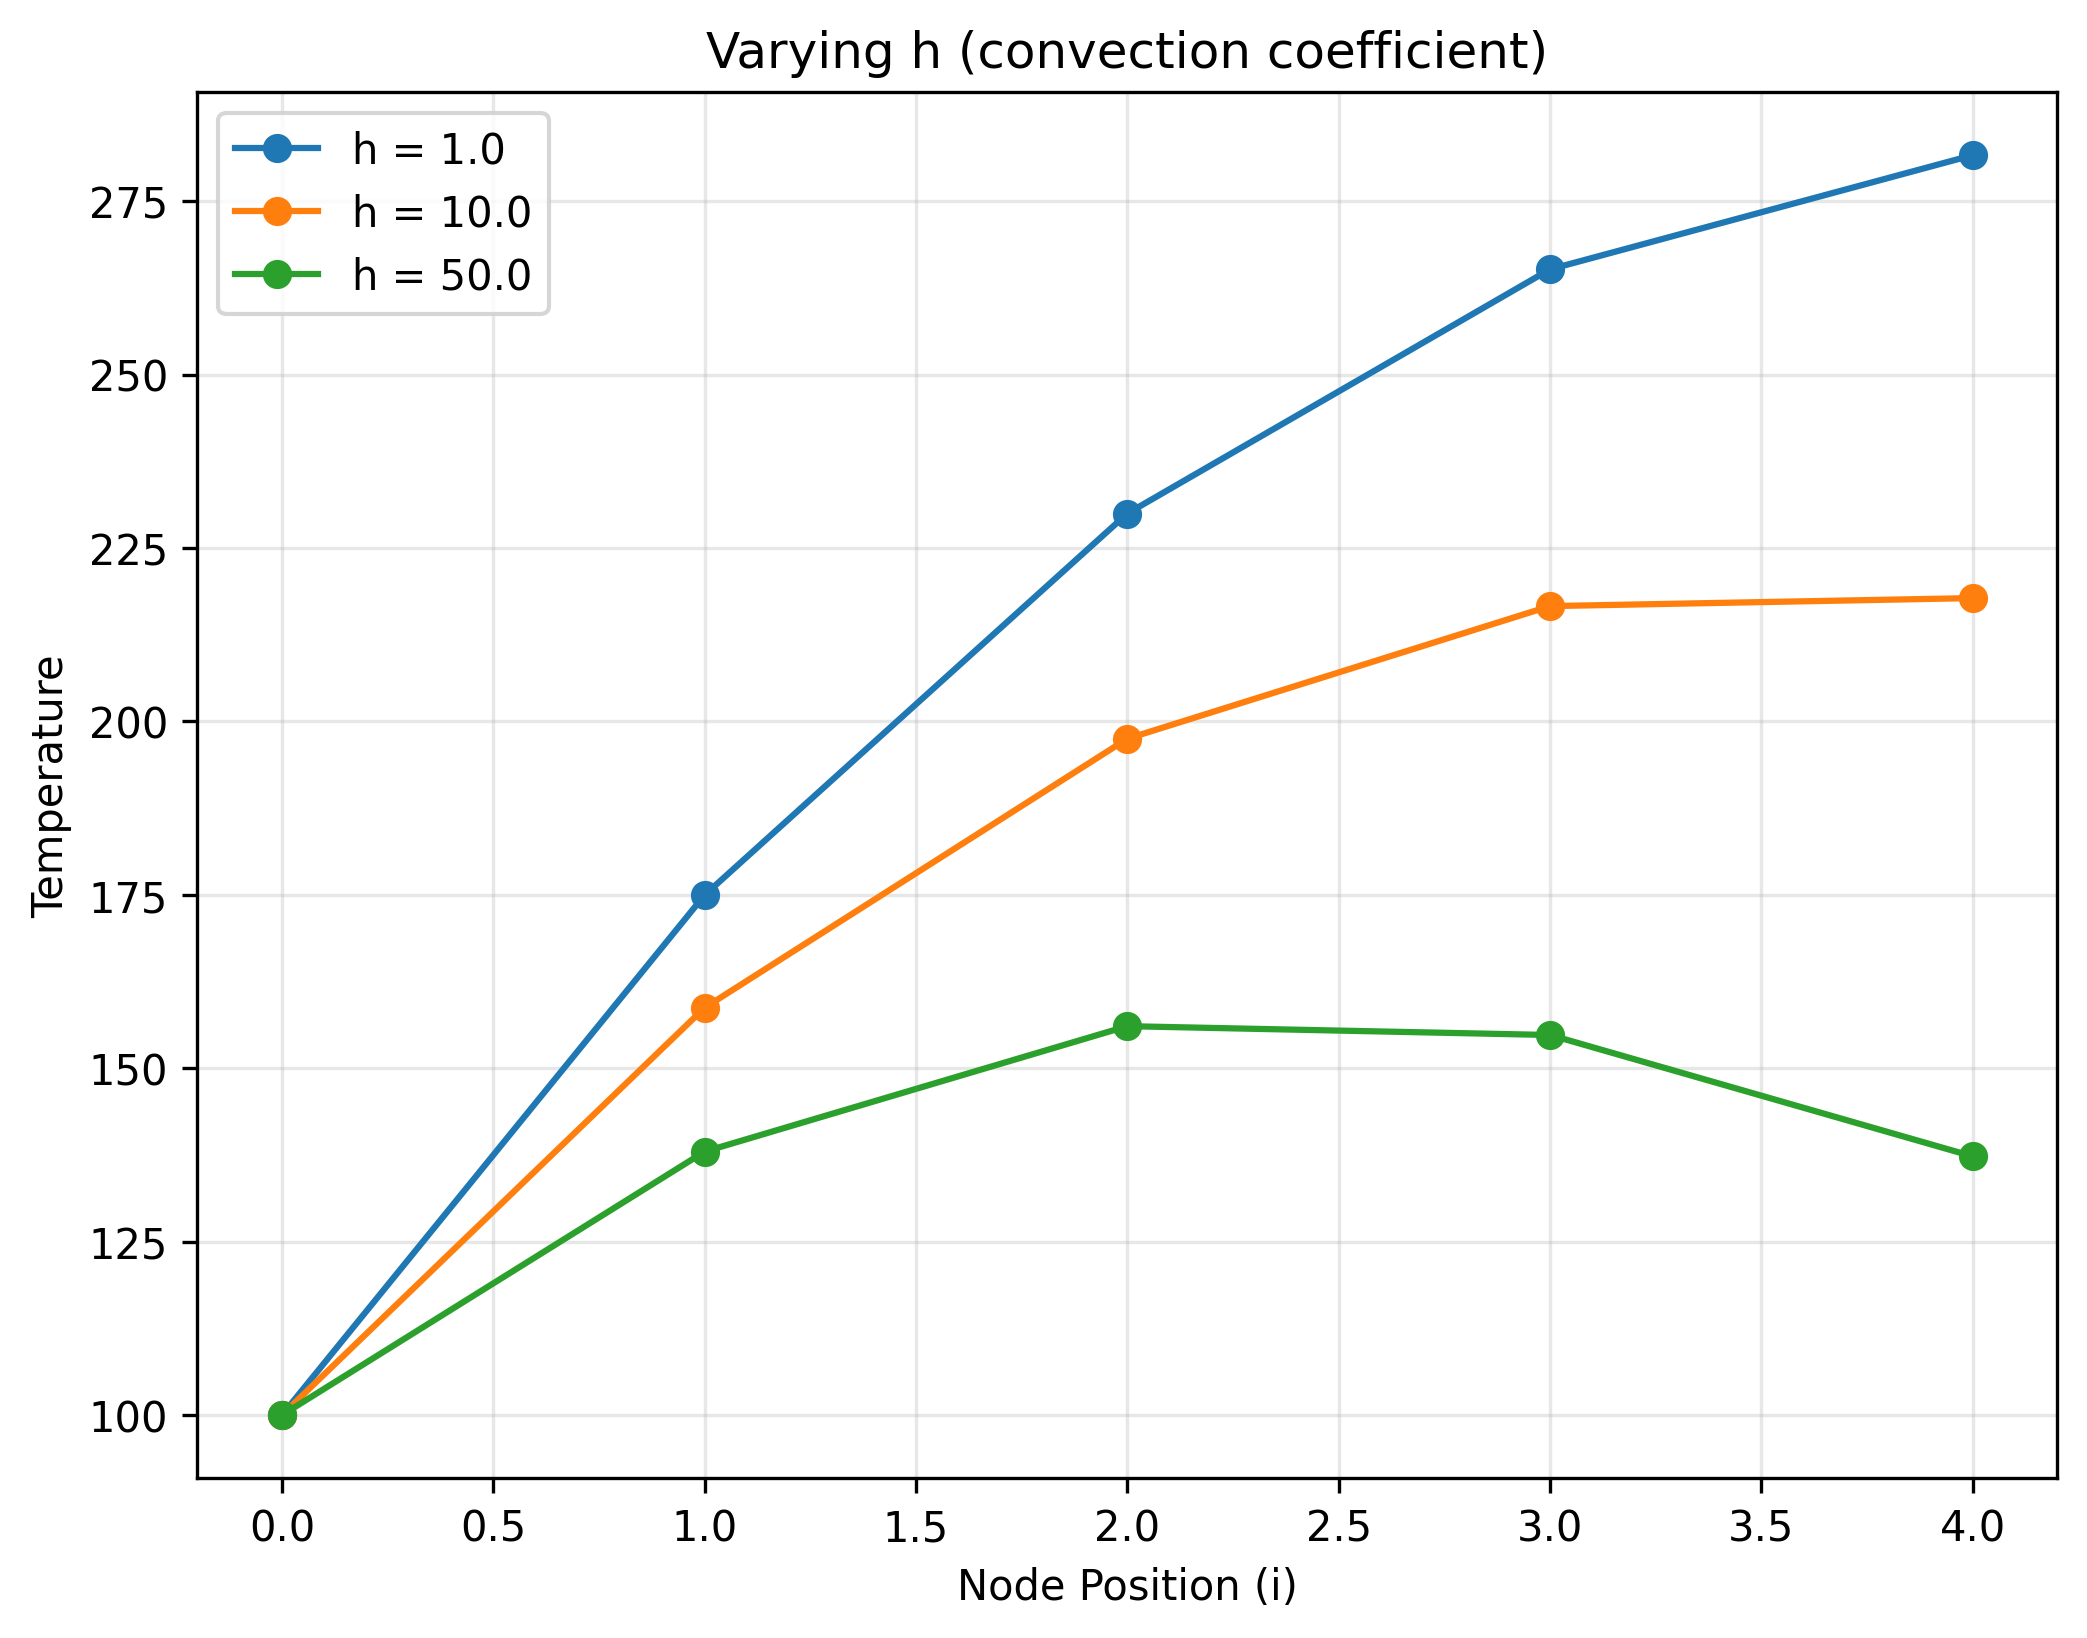
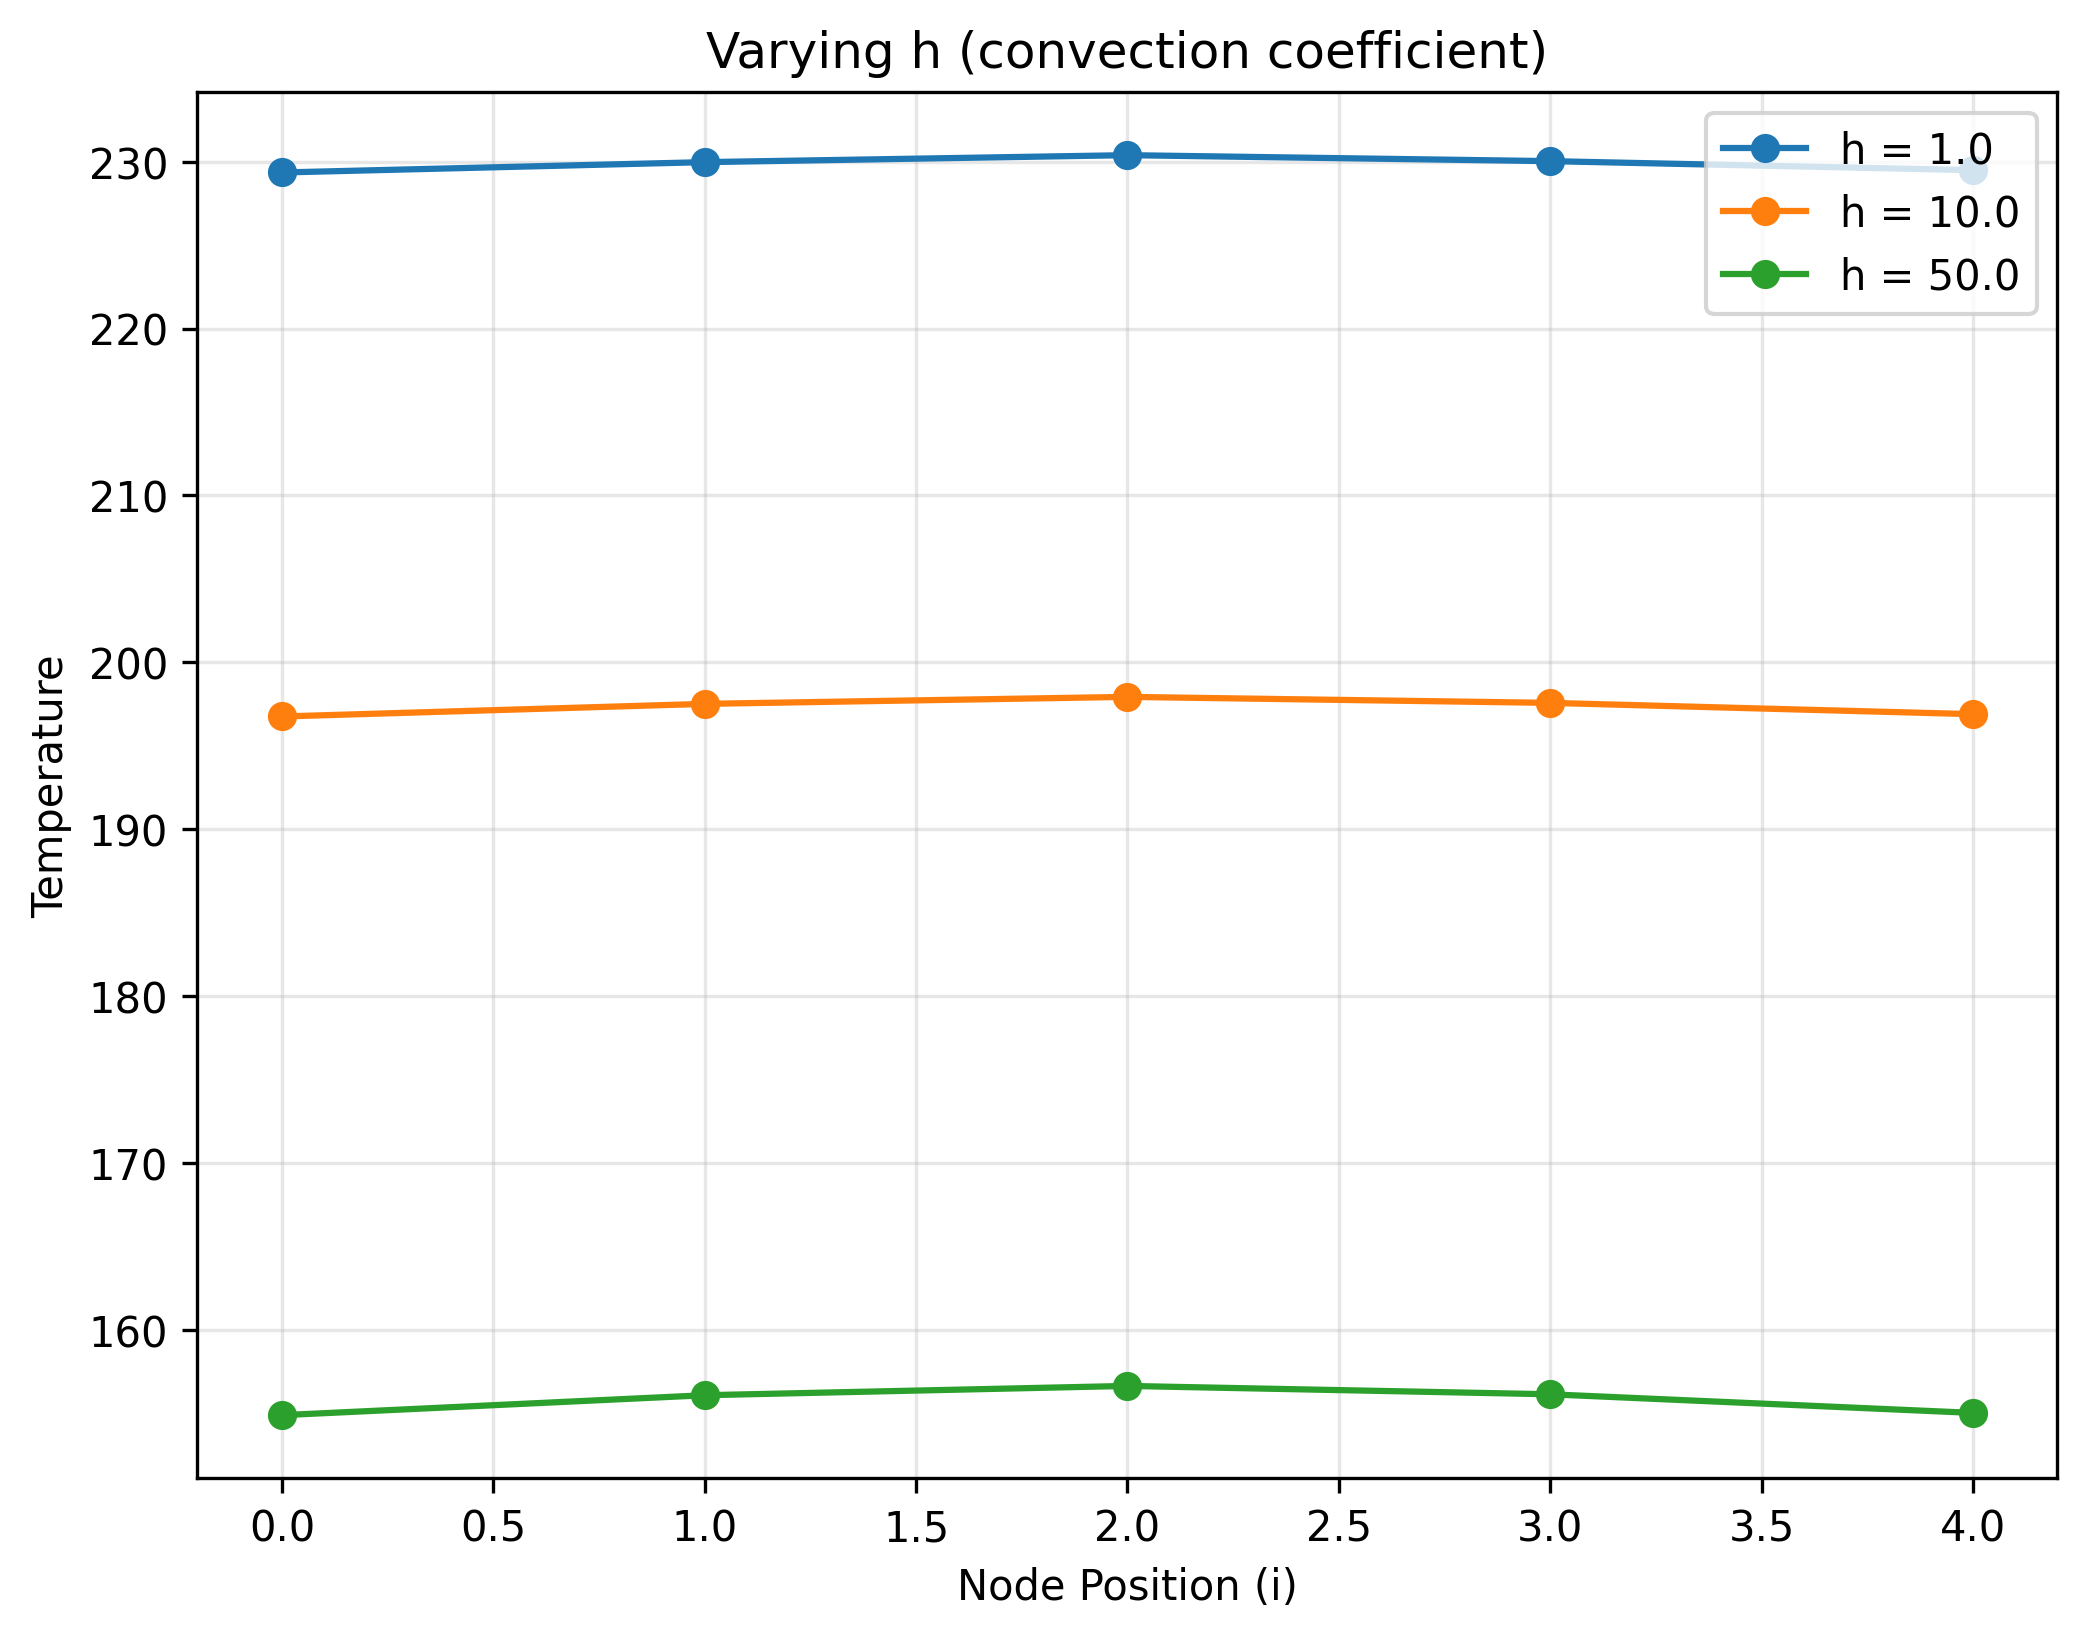
fixed ab line

diff --git a/main.py b/main.py
@@ -75,7 +75,7 @@ def get_node_temperatures(mesh: Mesh, node_indices: List[Tuple[int, int]]) -> Li
     """
     temperatures: List[float] = []
     for i, j in node_indices:
-        node = mesh.nodes[i][j]
+        node = mesh[i, j]
         if node is not None:
             temperatures.append(node.temperature)
     return temperatures
@@ -95,7 +95,7 @@ def create_node_plots() -> None:
     deltay = 0.2
 
     # Node indices to plot: [0,1], [1,1], [2,1], [3,1], [4,1]
-    node_indices = [(0, 1), (1, 1), (2, 1), (3, 1), (4, 1)]
+    node_indices = [(0, 2), (1, 2), (2, 2), (3, 2), (4, 2)]
 
     # Plot 1: Vary h values
     h_values = [1.0, 10.0, 50.0]
